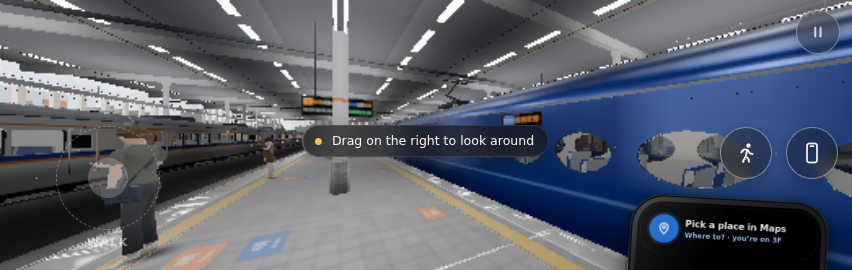
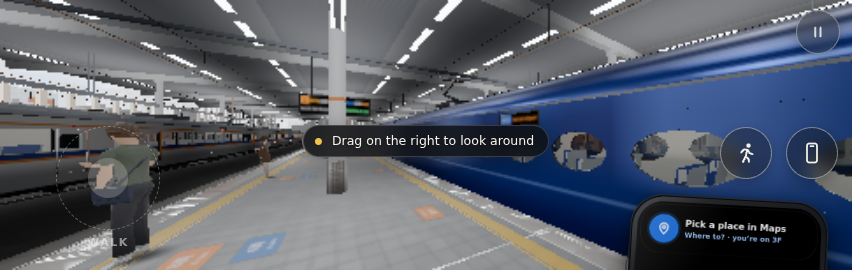
WIP v12: checkpoint
Claude-Session: https://claude.ai/code/session_01DFPWmVZjWP3RarZo2JLFjj

diff --git a/namba-demo/css/touch.css b/namba-demo/css/touch.css
@@ -134,6 +134,7 @@ html.is-touch .g-tip { white-space: normal; max-width: min(440px, calc(100vw - v
    left of the Run + Phone pair (2 x 52 + 14 px gap, plus the safe area), level with them, and wraps inside what is left
    between the walk stick and the buttons. The text flows as ordinary inline text (the desktop's nowrap flex row split
    "walk up to a lane, then [hand]" into columns). */
+html.is-touch .g-tip { background: rgba(10, 11, 14, .8); border-color: rgba(255, 255, 255, .16); text-shadow: 0 1px 6px rgba(0, 0, 0, .6); }   /* v12: a firmer backing over light floors */
 html.is-touch .g-tip-t { display: block; min-width: 0; text-wrap: balance; }
 html.is-touch .g-tip[data-at="phone"] { right: calc(var(--tu-sr, 0px) + 14px + 118px + 16px); bottom: calc(max(var(--tu-b, 0px), var(--tu-sb, 0px)) + 18px);
   max-width: min(380px, calc(100vw - var(--tu-sr, 0px) - var(--tu-sl, 0px) - 150px - 190px)); }
@@ -286,6 +287,9 @@ html.ph-wide #touch-ui.ph-up .tu-pause { top: max(10px, env(safe-area-inset-top)
 html.ph-wide .g-tip[data-at="phoneup"], html.ph-wide .g-tip.ph-up { right: calc(var(--ph-wide-gap, var(--tu-phone-gap, 300px)) + 12px + 76px); top: 10px; --tx: 0px; border-radius: 18px; font-size: 12px; padding: 7px 12px 7px 10px;
   max-width: calc(100vw - var(--ph-wide-gap, 300px) - var(--tu-sl, 0px) - 12px - 76px - 12px); }
 html.ph-wide .g-tip[data-at="phoneup"]::after, html.ph-wide .g-tip.ph-up::after { display: none; }
+/* hints that are not about the raised phone ("Drag on the right to look around": the right side IS the phone) step out of the
+   way while the wide phone is up; they come back when it is lowered */
+html.ph-wide .g-tip.ph-up { opacity: 0 !important; visibility: hidden !important; }
 @media (pointer: coarse) and (max-height: 500px) {
   body:has(#phone-root.ph-is-open) .h-amb { top: 62px; }
   html.ph-wide #hud .h-amb { top: 84px; left: calc(10px + var(--tu-sl, 0px)); width: calc(100vw - var(--ph-wide-gap, 300px) - 76px - var(--tu-sl, 0px) - 22px); }

diff --git a/namba-demo/js/ui/phone/stack3d.js b/namba-demo/js/ui/phone/stack3d.js
@@ -404,7 +404,13 @@ export class Stack3D {
     const tex = texCanvas(300, 76, (g, w, h) => {
       g.fillStyle = 'rgba(20,12,2,0.9)'; g.strokeStyle = '#ffb02e'; g.lineWidth = 3;
       const rr = 24; g.beginPath(); g.moveTo(rr, 4); g.arcTo(w - 4, 4, w - 4, h - 4, rr); g.arcTo(w - 4, h - 4, 4, h - 4, rr); g.arcTo(4, h - 4, 4, 4, rr); g.arcTo(4, 4, w - 4, 4, rr); g.closePath(); g.fill(); g.stroke();
-      g.fillStyle = '#ffe2a8'; g.font = '700 30px Inter, "Noto Sans JP", system-ui, sans-serif'; g.textAlign = 'center'; g.textBaseline = 'middle'; g.fillText(d.en, w / 2, h / 2 + 2);
+      // v12: a long name ("Wakakusa Coffee Stand") overflowed the 300-px chip on both sides ("kakusa Coffee Sta"):
+      // shrink the type to fit (down to 20 px), then ellipsize
+      const F = (px) => `700 ${px}px Inter, "Noto Sans JP", system-ui, sans-serif`, room = w - 40;
+      let fs = 30, txt = String(d.en || ''); g.font = F(fs);
+      while (fs > 20 && g.measureText(txt).width > room) { fs -= 1; g.font = F(fs); }
+      if (g.measureText(txt).width > room) { while (txt.length > 4 && g.measureText(txt + '…').width > room) txt = txt.slice(0, -1); txt = txt.trimEnd() + '…'; }
+      g.fillStyle = '#ffe2a8'; g.textAlign = 'center'; g.textBaseline = 'middle'; g.fillText(txt, w / 2, h / 2 + 2);
     });
     if (this.destLabel) { this.scene.remove(this.destLabel); this.destLabel.material.map.dispose(); this.destLabel.material.dispose(); }
     this.destLabel = new THREE.Sprite(new THREE.SpriteMaterial({ map: tex, transparent: true, depthTest: false, depthWrite: false, sizeAttenuation: false }));

diff --git a/namba-demo/notes/v12-shell.md b/namba-demo/notes/v12-shell.md
@@ -1,0 +1,80 @@
+# v12 Shell (items 1 + 2a): iPhone swipe-up full screen, a title that fits, a less crammed phone UI
+
+Files touched: `js/ui/touch.js`, `css/touch.css`, `css/style.css` (`#view` height only), `js/ui/title.js` (the cue markup only).
+Not touched: `css/game.css`, `js/game/game.js`, `index.html` (everything was doable from `touch.css`, so desktop styles cannot change).
+Test rig: `/tmp/.../scratchpad/shell.mjs` (Playwright Chromium, iPhone UA, `isMobile` + `hasTouch`, `Element.requestFullscreen` deleted,
+`screen` faked to 393x852 so the "full landscape height" is 393; bars = `page.setViewportSize` 852x270 -> 852x393). "Before" = commit `b13fa5c`
+(old CSS/JS served by route interception), "after" = the working tree. Shots in `notes/v12-shots/shell/{before,after,after3}/`.
+
+## 1. iPhone Safari: swipe up for full screen (no extra clicks)
+
+Why the bars never left: `css/style.css` locks `html, body` (overflow hidden, touch-action none), and Safari collapses its bars only when
+the *document* scrolls. iPhone has no element Fullscreen API (`goFullscreen()` stays for iPad/Android).
+
+| file | change |
+|---|---|
+| `js/ui/touch.js` `iphoneSafari()` | the case = iPhone/iPod UA, not an in-app browser (LinkedIn/FB/Instagram/WeChat/Twitter/GSA), not `navigator.standalone` / `display-mode: standalone`, no `requestFullscreen`/`webkitRequestFullscreen`, coarse pointer |
+| `js/ui/touch.js` `iosSwipe` | only in that case: adds `<div id="swipe-spacer">` (absolute, `--vh + 160px` tall, so the document can scroll while canvas/UI stay `position:fixed`), classes `ios-iphone`, `ios-swipe` (scrollable title), `ios-cue` (cue visible), `ios-lock` (no scroll). Re-evaluated on `resize`, `visualViewport` resize and orientation change |
+| collapse detection | bars "showing" = visible height < full landscape height (`min(screen.w, screen.h)`) - 40 px. Collapsed = `innerHeight >= full - 40` OR grew 40 px over the smallest height seen. Collapsed: the cue fades and the page re-locks (overflow hidden) AT that scroll position (the spacer stays, so the scroll offset and the bars are not reset). If the bars return while still on the title, the cue returns |
+| `TouchUI.update` | `game.started` -> `iosSwipe.begin()`: locks for good. Tap to begin never needs the swipe. In game nothing is shown or nagged when the bars come back (the lock simply stays) |
+| `js/ui/title.js` | `.t-swipe` cue (touch only, markup only): chevrons + "Swipe up for full screen" + "上にスワイプで全画面". Visible only under `html.ios-cue` (CSS), fades in after the title's own stagger |
+| `css/touch.css` | `#swipe-spacer`, `html.ios-swipe` (overflow-y auto, touch-action pan-y), `.ios-lock` (hidden / none), the cue, and the Settings tip: `html.ios-iphone .g-settings::after { content: 'Play full screen: Share -> Add to Home Screen' }` (pure CSS, so it shows in both the title Settings drawer and the pause Settings; iPhone only) |
+
+Verified in emulation (log lines from `shell.mjs`): at 852x270 `html` is `ios-swipe ios-cue`, `scrollHeight` 430 > 270; a real CDP touch swipe moves
+`scrollY` 0 -> 97; resizing to 852x393 gives `ios-lock`, cue opacity 0, `scrollY` kept (37); back to 852x270 the cue returns (opacity 1); Begin
+-> `ios-lock`. Android UA (Fullscreen API present) and desktop: no spacer, no cue, no classes (the run with `--ua android` and `mouseshot`).
+
+## 2. The title fits the visible height
+
+Root cause (shot 0): at ~270 px of visible height the bottom-anchored `.t-main` (about 250 px tall in desktop typography) grew upward over
+`.t-place` and pushed なんば off the top. `touch.css` now has a short-landscape tier (`pointer: coarse` and `max-height: 440px`, plus a
+`300px` one): smaller kana/rule/tag/begin spacing, `.t-latin` = 15% of `--vh` clamped 32-56 px, top/foot/drawer padding from the safe-area insets
+(notch side), the Settings drawer scrolls. `#view` in `style.css`: `height: 100vh; height: 100dvh` (touch already overrides to 100%).
+
+Measured (`title-<h>` log): `.t-main` top vs `.t-place` bottom (33 px): 270 -> 105, 330 -> 137, 390 -> 190 (no overlap); `.t-begin` bottom vs `.t-foot` top: 240/249, 294/309, 354/369.
+Shots: `after/title-270.png`, `title-330.png`, `title-390.png`, `title-393-collapsed.png`, `title-270-settings.png` (the tip). Before: `before/title-*.png`.
+
+## 3. Less crammed (2a), all in `css/touch.css`, scoped to `html.is-touch` / `pointer: coarse`
+
+| item | change | measured / shot |
+|---|---|---|
+| PA captions | one at a time (`.h-amb-i:not(:last-of-type)` hidden), 45% width max (380 px), top-left under the safe area, JA 11 px / EN 10 px each clamped to 2 lines, firmer backing (.55) | 387x70 px at (1,10); the stick ring starts at y 126 (270 tall) / 249 (393): never touches. `after/pa-270.png`, `pa-393.png` |
+| story captions | width between the stick and the buttons (`100vw - 2*(inset+190)`), JA 13.5 / EN 12 px | - |
+| tutorial hint | wraps as normal inline text (the desktop nowrap flex row split "...a lane, then [hand]" into columns), `data-at="phone"` now ends left of the Run+Phone pair (safe-area aware, level with them), max-width between stick and buttons; firmer backing (.8) and a text shadow for light floors | `after3/tip-phone-393.png` (hint ends 16 px left of Run, 0 overlap with Run/Phone/stick), `tip-gate-270.png` (the gate hint on one line) |
+| pause menu | phone layout: kana 26 px, rows 40 px, the goals/quests tighter, contact cards 48 px high two-up, the right column scrolls with `touch-action: pan-y` | 852x393: both quests + both cards fit with no scroll (`after3/pause2-393.png`); 852x270: scrolls by touch (scrollTop 48), both cards `inView` after (`pause2-270-scrolled.png`) |
+| `--tu-sl/sr/sb/st`, `--tu-b/r` | safe-area insets and the live cluster offsets published on `<html>` so HUD pieces outside `#touch-ui` can stay clear | - |
+| Peek card | NOT done here, needs the Phone agent (see requests) | `after/peek-393.png`: 301x100 px (24% of the height) |
+
+## Contract with the Phone agent (wide landscape phone, `html.ph-wide`)
+
+- Pause, Run and Phone stack in a column on the free strip's right edge (just left of the phone, following `ph.device`'s rect), Pause on top.
+  The stick, PA caption, hint and button column sit inside the ~245-345 px strip without overlapping (`after3/raised-393.png`, `raised-270.png`; log lines
+  "overlaps ... false" for tip/amb, tip/pause, amb/pause, amb/stick, btn/stick, tip/phone, run/phone).
+- `--tu-phone-gap` = `ph.upGap + 4` while wide; the phone-up hint (`data-at="phoneup"`) sits left of the button column (right = `--ph-wide-gap + 88`), wraps, no arrow.
+- Hints that are not about the raised phone (e.g. "Drag on the right to look around": the right side IS the phone) are hidden while `ph-wide`
+  (they come back on lowering). **Copy issue for the lead:** none needed if hidden; if you would rather show them, the words should say "left thumb".
+- While wide, the PA caption is JA only, one line, under the hint (top 84 px, 62 px at <= 300 px height), width = the strip minus the button column.
+
+## Requests (not my files)
+
+1. **Phone / peek card**: the lowered glance card is 301x100 px at 852x393 (and rotated). Make it about 25% smaller on touch ph-compact: in `phone.js`
+   use a smaller `GLANCE_S` (about 0.75 instead of 0.97) when `this._touch && dh < 640`, and `GLANCE_H` in proportion; the card lives in transforms, so it
+   cannot be shrunk from CSS (an extra `scale` would pivot about the transform-origin, which is below the screen).
+2. The pause/touch copy `.p-hint` is hidden on touch as before; nothing needed.
+
+## What can only be proven on a real iPhone (honest list)
+
+- That Safari really collapses its bars on this scroll (spacer approach is the standard trick, but Safari decides) and what `innerHeight` it reports after:
+  my thresholds (`full - 40` or `+40 px growth`) are guesses from Zack's screenshot (visible about 283 pt of 393 with bars).
+- That `overflow: hidden` on `html` while scrolled does not bring the bars back (I keep the spacer so the document is still taller than the viewport; lock only
+  changes overflow/touch-action). If the bars pop back at the lock, remove `.ios-lock` handling during the title (the page may stay scrollable until Begin).
+- `screen.width/height` on iOS landscape (I use the smaller of the two as the full landscape height).
+- `visualViewport`/`resize` timing, the iOS 15 vs 17 differences, the notch/Dynamic Island insets on the title left margin.
+- The Settings tip wording on the pause menu (CSS pseudo-element on `.g-settings`).
+
+## Unsure
+
+- Title at 390 now looks a bit denser than the desktop-typography original (kana 13 px, tag 13 px). Readable, but Zack may want 1-2 px more.
+- With bars up (about 270 px) the game itself is playable (HUD verified at 852x270) but cramped; the swipe cue is the cure and only exists on the title.
+- The hidden non-phone hints under `ph-wide` mean a player who raises the phone before "looking" never sees the look hint; low risk.
+- `ios-lock` after `Begin` with bars still up leaves `scrollY` as is (e.g. 37) on a page whose body is overflow hidden; harmless but untested on device.

diff --git a/namba-demo/notes/v12-phone.md b/namba-demo/notes/v12-phone.md
@@ -54,6 +54,7 @@ People also really do turn their phone for maps.
 | `js/ui/phone/lodestone.js` | `_bands()` for the wide pane; `onLayout()`; the map band = the whole pane; `--ld-hh` / `--ld-th` (header and trip card heights) for the panel's steps list. |
 | `js/ui/phone/mapapp.js` | `_anchor()`: centred in the pane when wide (no sheet over the map). |
 | `js/ui/phone/ldmap.js` | calibration picture centred in the pane when wide. |
+| `js/ui/phone/stack3d.js` | the destination name chip fits its text (shrinks 30 → 20 px, then "…"). |
 | `css/phone.css` | the `.ph-land` block at the end; the touch 3D view button fix (`position: absolute`, below). |
 | `css/touch.css` | **unchanged.** Its 3 `#phone-root.ph-compact` rules still apply to the portrait compact phone ("play upright anyway"); the `.ph-land` rules override them by specificity / load order (phone.css loads last). |
 
@@ -84,6 +85,21 @@ touchwalk and the critic's "the 3D button was never visible". Fix in `phone.css`
 I checked the other targets in that rule (`.ms-chip`, dock buttons, `.dl-next`, `.ld-new`, `.ld-end`, `.ld-pv-go`):
 all are in-flow elements, so `relative` is harmless there.
 
+## The 3D destination chip ("kakusa Coffee Sta", lead's nit)
+
+Not the pane edge: the name was drawn at a fixed 30 px, centred on a 300-px texture, so "Wakakusa Coffee Stand"
+overflowed it on both sides. The same clip shows in the before-shot and on the tablet (where the chip is mid-screen).
+`stack3d.js` now measures the name and shrinks the type to fit (down to 20 px), then ellipsizes. The chip's on-screen
+position was already clamped inside the canvas (`stack3d.js` `_frame`, `rMax`), and the canvas is the pane.
+
+## Test runs
+
+| Run | Result |
+|---|---|
+| `phoneshots` 844×390 before / after, 852×393 after, 1180×820 after (to the 3D view) | all states reached by real taps; `ctx.errors []`, console `[]` |
+| `tools/mouseshot.mjs` (desktop) | free chip, pause, links `_blank`, backdrop resume (locked), phone chip, **errors []**: desktop unchanged (wide mode needs touch; the `.ld-x3d` rule is `html.is-touch` only) |
+| `tools/touchwalk.mjs` (844×390, run 1) | Begin → look → stick → chips → Maps pick → gate Use → Lodestone Get → calibrating → end card → pause, `ctx.errors []`. **But that run showed the portrait phone** and still "TAP MISS 3D view" (during the hero, the button is hidden by design). A probe on the same working tree right after (raise by the real touch Phone button) gave `ph-land` + `html.ph-wide` as expected; my guess is the file was swapped under the run (a checkpoint/stash around 09:30). Run 2 is below. |
+
 ## Shots (`notes/v12-shots/phone/`)
 
 - `844-before-*` / `844-after-*`: 1 Messages with chips · 2 Maps pick (+ banner + compass toast) · 3 Maps route ·
@@ -101,7 +117,5 @@ all are in-flow elements, so `relative` is harmless there.
   considered and not built (it would fight players who stop to look around).
 - **Looking around with the wide phone up:** the look area (right half) is under the phone, so you can't turn
   while it is up; you lower it (Phone button) or start walking. Before, a ~110 px gap was left for it.
-- **Destination chip in the 3D** ("kakusa Coffee Sta"): a long name overflows its sprite. Pre-existing (same in the
-  before-shot), only for long names (Daikichi and Café Mitsubachi fit).
 - The width morph was judged from stills only; the motion itself (raise → widen) wants a look on a real phone.
 - Real iPhone safe areas (the notch side) are handled by the existing `safeRight()`; not testable here.
